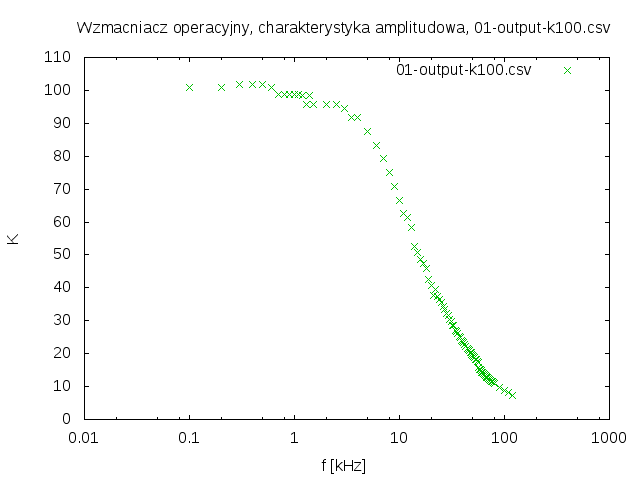
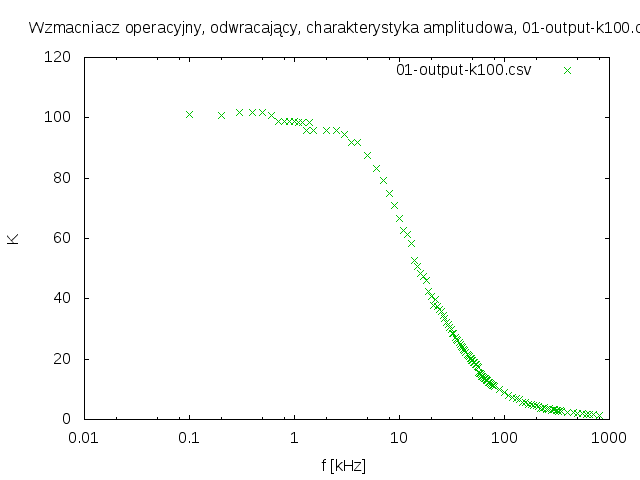
[lab03] docs updated

diff --git a/lab03/docs/uj-spe-lab03-michal-liszcz.md b/lab03/docs/uj-spe-lab03-michal-liszcz.md
@@ -1,0 +1,293 @@
+---
+title: Pracownia elektroniczna
+subtitle: |
+  ćw. 3: Wzmacniacz operacyjny.\
+  prowadzący: dr hab. Janusz Brzychczyk\
+author: Michał Liszcz
+date: 08.04.2016
+toc: true
+geometry: margin=6em
+header-includes:
+    - \usepackage{mathrsfs}
+    - \usepackage{amssymb}
+    - \usepackage{empheq}
+    - \usepackage{braket}
+    - \usepackage{empheq}
+    - \usepackage{graphicx}
+    - \usepackage{float}
+    - \usepackage{color}
+    - \usepackage{listings}
+    - \usepackage{gensymb}
+    - \usepackage{caption}
+    - \usepackage{subcaption}
+---
+
+\newpage
+
+# Wstęp
+
+Ćwiczenie polegało na zbadaniu własności układów wykorzystujących wzmacniacz
+operacyjny.
+
+# Wykonane zadania
+
+W ramach laboratorium wykonałem 5 ćwiczeń opisanych w instrukcji.
+
+## Wzmacniacz odwracający fazę
+
+Zadanie polegało na zbudowaniu wzmacniacza odwracającego fazę, w dwóch
+wersjach - o wzmocnieniu $K=100$ oraz o wzmocnieniu $K=1$. Dla układu należało
+wyznaczyć charakterystyki częstotliwościowe oraz, na ich podstawie,
+częstotliwości graniczne.
+
+### Wprowadzenie
+
+Wzmacniacz operacyjny odwracający fazę przedstawiony jest na rys.
+\ref{fig:opampNegInv}.
+
+\begin{figure}[H]
+  \centering
+  \includegraphics[width=0.5\textwidth]{images/01-opamp-neg-inv.png}
+  \caption{Wzmacniacz odwracający fazę. Źródło: instrukcja laboratoryjna.}
+  \label{fig:opampNegInv}
+\end{figure}
+
+Przyjmując oznaczenia jak na rysunku oraz zakładając idealne parametry
+wzmacniacza, napięcie wyjściowe dane jest przez:
+
+\begin{equation}
+U_{wy} = - \frac{R_2}{R_1} U_{we}
+\end{equation}
+
+Wzmocnienie tego układu wynosi:
+
+\begin{equation}
+K = \frac{|U_{wy}|}{|U_{we}|} = \frac{R_2}{R_1} = |T|
+\end{equation}
+
+
+### Układ dla K=100
+
+Użyłem następujących rezystancji:
+
+* $R_2 = 99.2\,\text{k}\Omega$,
+* $R_1 = 0.996\,\text{k}\Omega$.
+
+Mierzyłem stosunek amplitud i częstotliwość w zakresie od 100 Hz do 1 MHz.
+Graficznie wyznaczyłem punkt, w krótym wzmocnienie osiągnęło wartość
+$K\sqrt{1/2}$:
+
+\begin{equation}
+f_g \approx 8.997\,\text{kHz}
+\end{equation}
+
+Pomiary przedstawione są na rys. \ref{fig:1-1}, \ref{fig:1-2} oraz
+\ref{fig:1-3}.
+
+Otrzymany układ jest filtrem dolnoprzepustowym.
+
+\begin{figure}[H]
+  \centering
+  \includegraphics[width=0.6\textwidth]{{plots/fig-opamp-neg-inv-logscale--01-output-k100.csv}.png}
+  \caption{Wzmacniacz odwracający, $K=100$. Charakterystyka amplitudowa. Skala logarytmiczna.}
+  \label{fig:1-1}
+\end{figure}
+
+\begin{figure}[H]
+  \centering
+  \includegraphics[width=0.6\textwidth]{{plots/fig-opamp-neg-inv-nologscale--01-output-k100.csv}.png}
+  \caption{Wzmacniacz odwracający, $K=100$. Charakterystyka amplitudowa. Skala liniowa.}
+  \label{fig:1-2}
+\end{figure}
+
+\begin{figure}[H]
+  \centering
+  \includegraphics[width=0.6\textwidth]{{plots/fig-opamp-neg-inv-phase-logscale--01-output-k100.csv}.png}
+  \caption{Wzmacniacz odwracający, $K=100$. Charakterystyka amplitudowa. Skala logarytmiczna.}
+  \label{fig:1-3}
+\end{figure}
+
+### Układ dla K=1
+
+Podobne pomiary przeprowadziłem dla układu zbudowanego z rezystancji:
+
+* $R_2 =0.990\,\text{k}\Omega$,
+* $R_1 = 0.996\,\text{k}\Omega$.
+
+Uśredniłem wartość częstotliwości między dwoma punktami pomiarowymi, zakładając
+liniową zmianę wzmocnienia na tym odcinku ($K=0.729$, $f=540.2$),
+($K=0.687$, $f=559.0$):
+
+\begin{equation}
+f_g \approx 550.0\,\text{kHz}
+\end{equation}
+
+Pomiary przedstawione są na rys. \ref{fig:1-4}.
+
+\begin{figure}[H]
+  \centering
+  \includegraphics[width=0.6\textwidth]{{plots/fig-opamp-neg-inv-logscale--01-output-k1.csv}.png}
+  \caption{Wzmacniacz odwracający, $K=1$. Charakterystyka amplitudowa. Skala logarytmiczna.}
+  \label{fig:1-4}
+\end{figure}
+
+Rys. \ref{fig:1-5} przedstawia graficzne porównanie wzmacniaczy o dwóch
+różnych parametrach $K$.
+
+\begin{figure}[H]
+  \centering
+  \includegraphics[width=0.6\textwidth]{{plots/fig-opamp-neg-inv--combined-logscale--01-output-k1.csv}.png}
+  \caption{Wzmacniacz odwracający. Zielony $K=1$, niebieski $K=100$.}
+  \label{fig:1-5}
+\end{figure}
+
+## Wtórnik napięciowy
+
+Zadanie polegało na zmierzeniu rezystancji wejściowej i charakterystyki
+wtórnika napięcia.
+
+### Wprowadzenie
+
+Wtórnik napięciowy, przedstawiony na rys. \ref{fig:2-0} to szczególny
+przypadek wzmacniacza nieodwracającego.
+
+\begin{figure}[H]
+  \centering
+  \includegraphics[width=0.5\textwidth]{images/02-opamp-neg-noninv.png}
+  \caption{Wtórnik napięciowy. Źródło: instrukcja laboratoryjna.}
+  \label{fig:2-0}
+\end{figure}
+
+Napięcie wyjściowe idealnego wtórnika jest równe napięciu wejściowemu:
+
+\begin{equation}
+U_{wy} = U_{we}
+\end{equation}
+
+### Charakterystyka K(f)
+
+Mierzyłem wzmocnienie wtórnika w funkcji częstotliwości. Wyniki pomiarów
+przedstawione są na rys. \ref{fig:2-1}. Widać, że wtórnik ma szerokie
+pasmo przenoszenia, aż do $f_g \approx 1\,\text{MHz}$.
+
+\begin{figure}[H]
+  \centering
+  \includegraphics[width=0.6\textwidth]{{plots/fig-opamp-neg-noninv-logscale--02-output-woR1.csv}.png}
+  \caption{Wzmocnienie wtórnika napięciowego.}
+  \label{fig:2-1}
+\end{figure}
+
+### Opór wewnętrzny
+
+W celu pomiaru wewnętrznego oporu wejściowego $R_{we}$ wtórnika, na wejściu
+odwracającym włączyłem opornik $R_3 = 10.04\,\text{M}\Omega$.
+
+Z powstałego dzielnika napięcia widać że:
+
+\begin{equation}
+\frac{U_{we}'}{U_{we}} = \frac{R_{we}}{R_3 + R_{we}}
+\end{equation}
+
+Napięcie $U_{we}'$ to napięcie między opornikiem $R_3$ a wejściem odwracającym
+wzmacniacza - jest równe $U_{wy}$.
+
+Z powyższej zależności wynika:
+
+\begin{equation}
+R_{we} = \frac{K}{1-K} R
+\end{equation}
+
+Należało wyznaczyć opór przy częstotliwości $f=5\,\text{kHz}$. Z pomiarów
+otrzymałem $K=0.701$, co daje:
+
+\begin{equation}
+R_{we} \approx 23.58\,\text{M}\Omega
+\end{equation}
+
+Pomiary dla różnych częstotliwości przedstawia rys. \ref{fig:2-2}.
+
+\begin{figure}[H]
+  \centering
+  \includegraphics[width=0.6\textwidth]{{plots/fig-opamp-neg-noninv-inimp-logscale--02-output-wR1R3.csv}.png}
+  \caption{Opór wewnętrzny wtórnika napięciowego.}
+  \label{fig:2-2}
+\end{figure}
+
+## Wzmacniacz różniczkująco - całkujący
+
+Zadanie polegało na wyznaczeniu charakterystyki częstotliwościowej wzmacniacza
+różniczkująco - całkującego, wyznaczeniu częstotliwości granicznych oraz
+porównaniu ich z wartościami teoretycznymi.
+
+## Wprowadzenie
+
+Wzmacniacz różniczkująco - całkujący przedstawiony jest na rys.
+\ref{fig:3-0}.
+
+\begin{figure}[H]
+  \centering
+  \includegraphics[width=0.5\textwidth]{images/03-opamp-neg-intdiff.png}
+  \caption{Wzmacniacz różniczkująco-całkujący. Źródło: instrukcja laboratoryjna.}
+  \label{fig:3-0}
+\end{figure}
+
+Funkcja transmisji wyraża się przez zespolone impedancje zastępcze par
+opornik-kondensator:
+
+\begin{equation}
+T(\omega) = \frac{U_{wy}}{U_{we}} = -\frac{Z_2}{Z_1}
+\end{equation}
+
+Charakterystyka amplitudowa:
+
+\begin{equation}
+|T(\omega)| = \sqrt{TT*} = \frac{f/f_0}{ \sqrt{(1+(f/f_1)^2)(1+(f/f_2)^2)} }
+\end{equation}
+
+gdzie:
+
+\begin{equation}
+f_0 = \frac{1}{2\pi R_2 C_1}, \qquad
+f_1 = \frac{1}{2\pi R_1 C_1}, \qquad
+f_2 = \frac{1}{2\pi R_2 C_2}
+\end{equation}
+
+### Charakterystyka amplitudowa
+
+Do budowy układu wykorzystałem następujące elementy:
+
+* $C_1 = 93.2\,\text{nF}$,
+* $R_1 = 1475.0\,\Omega$,
+* $C_2 = 8.53\,\text{nF}$,
+* $R_2 = 156.4\,\Omega$.
+
+Daje to teoretyczne częstotliwości graniczne:
+
+* $f_1 = 1.157\,\text{kHz}$,
+* $f_2 = 119.3\,\text{kHz}$.
+
+W celu ich potwierdzenia eksperymentalnego, do danych pomiarowych dopasowałem
+funkcję transmisji przedstawioną w poprzednim punkcie. Otrzymane parametry
+dopasowania to:
+
+* $f_0 = 9.60(25)\,\text{kHz}$,
+* $f_1 = 0.955(27)\,\text{kHz}$,
+* $f_2 = 169.5(4.7)\,\text{kHz}$.
+
+Widać że dolna częstotliwość graniczna jest bardzo zbliżona do wartości
+teoretycznej. Otrzymana wartość górna jest natomiast znacznie większa.
+
+Dopasowaną krzywa przedstawia rys. \ref{fig:3-1}.
+
+\begin{figure}[H]
+  \centering
+  \includegraphics[width=0.6\textwidth]{{plots/fig-opamp-diffint-ampl-logscale--03-output-1Vpp.csv}.png}
+  \caption{Charakterystyka amplitudowa wzmacniacza różniczkująco-całkującego.}
+  \label{fig:3-1}
+\end{figure}
+
+
+
+## Przerzutnik Schmidta
+
+## Multiwibrator astabliny
